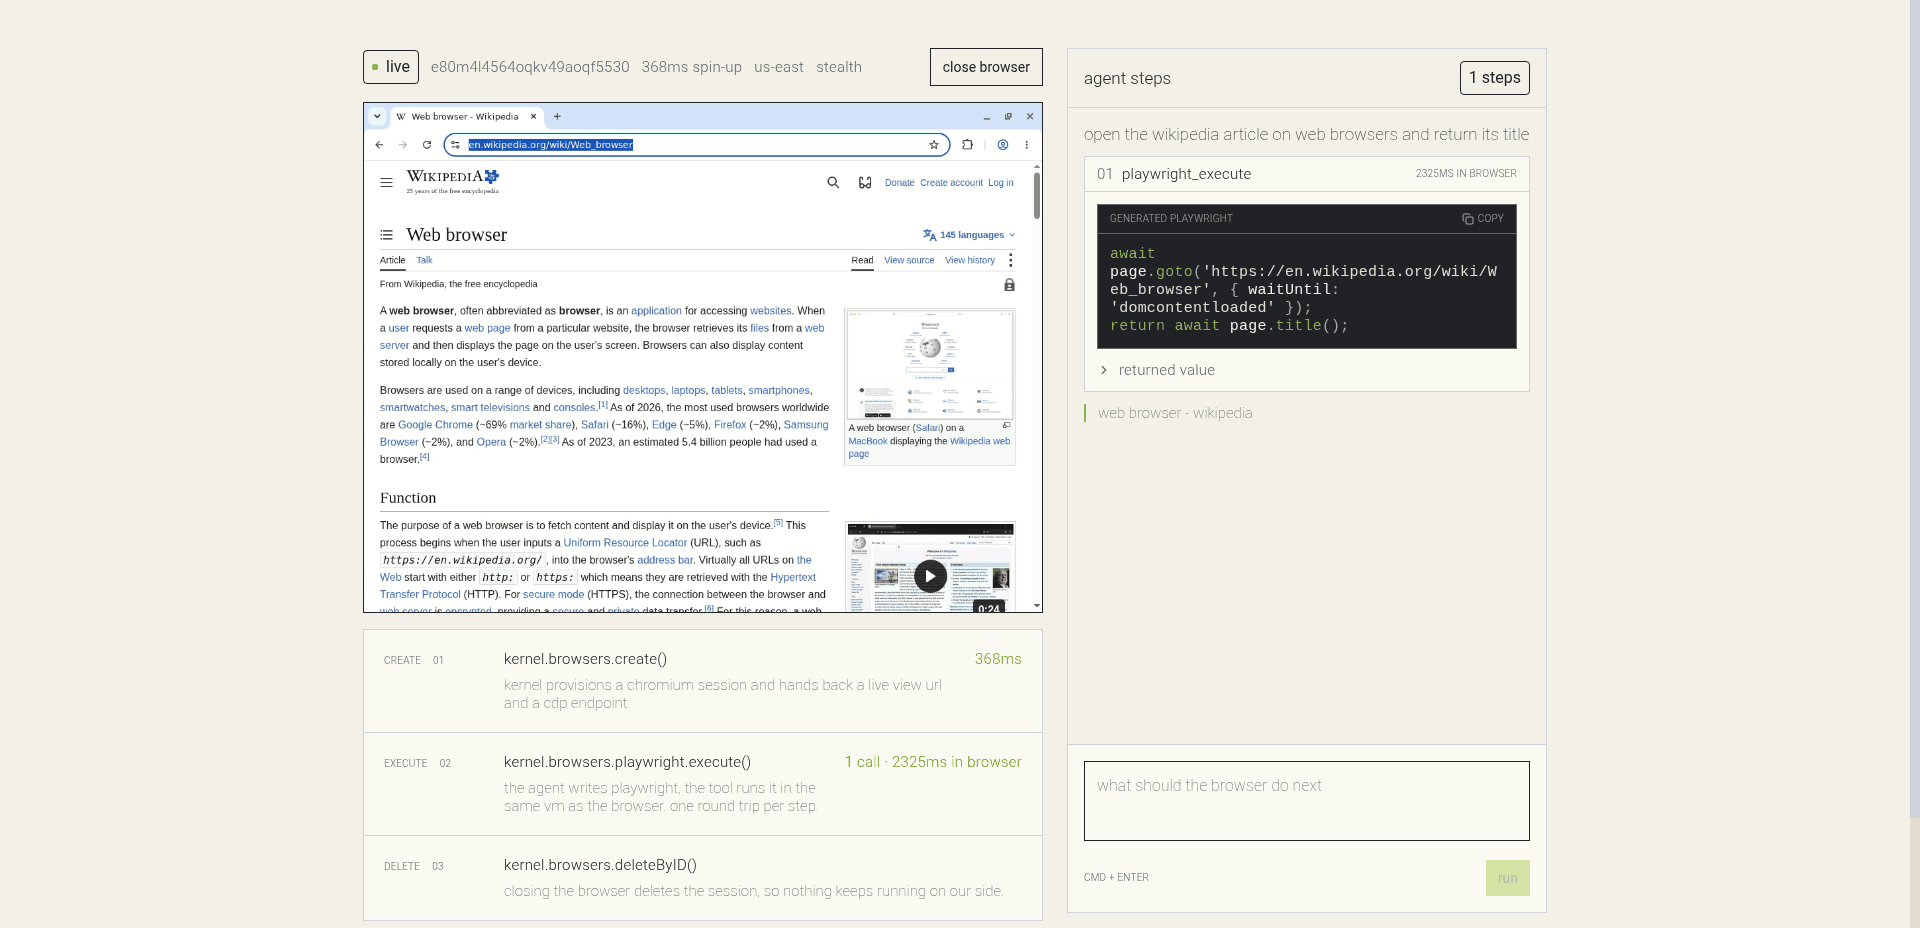
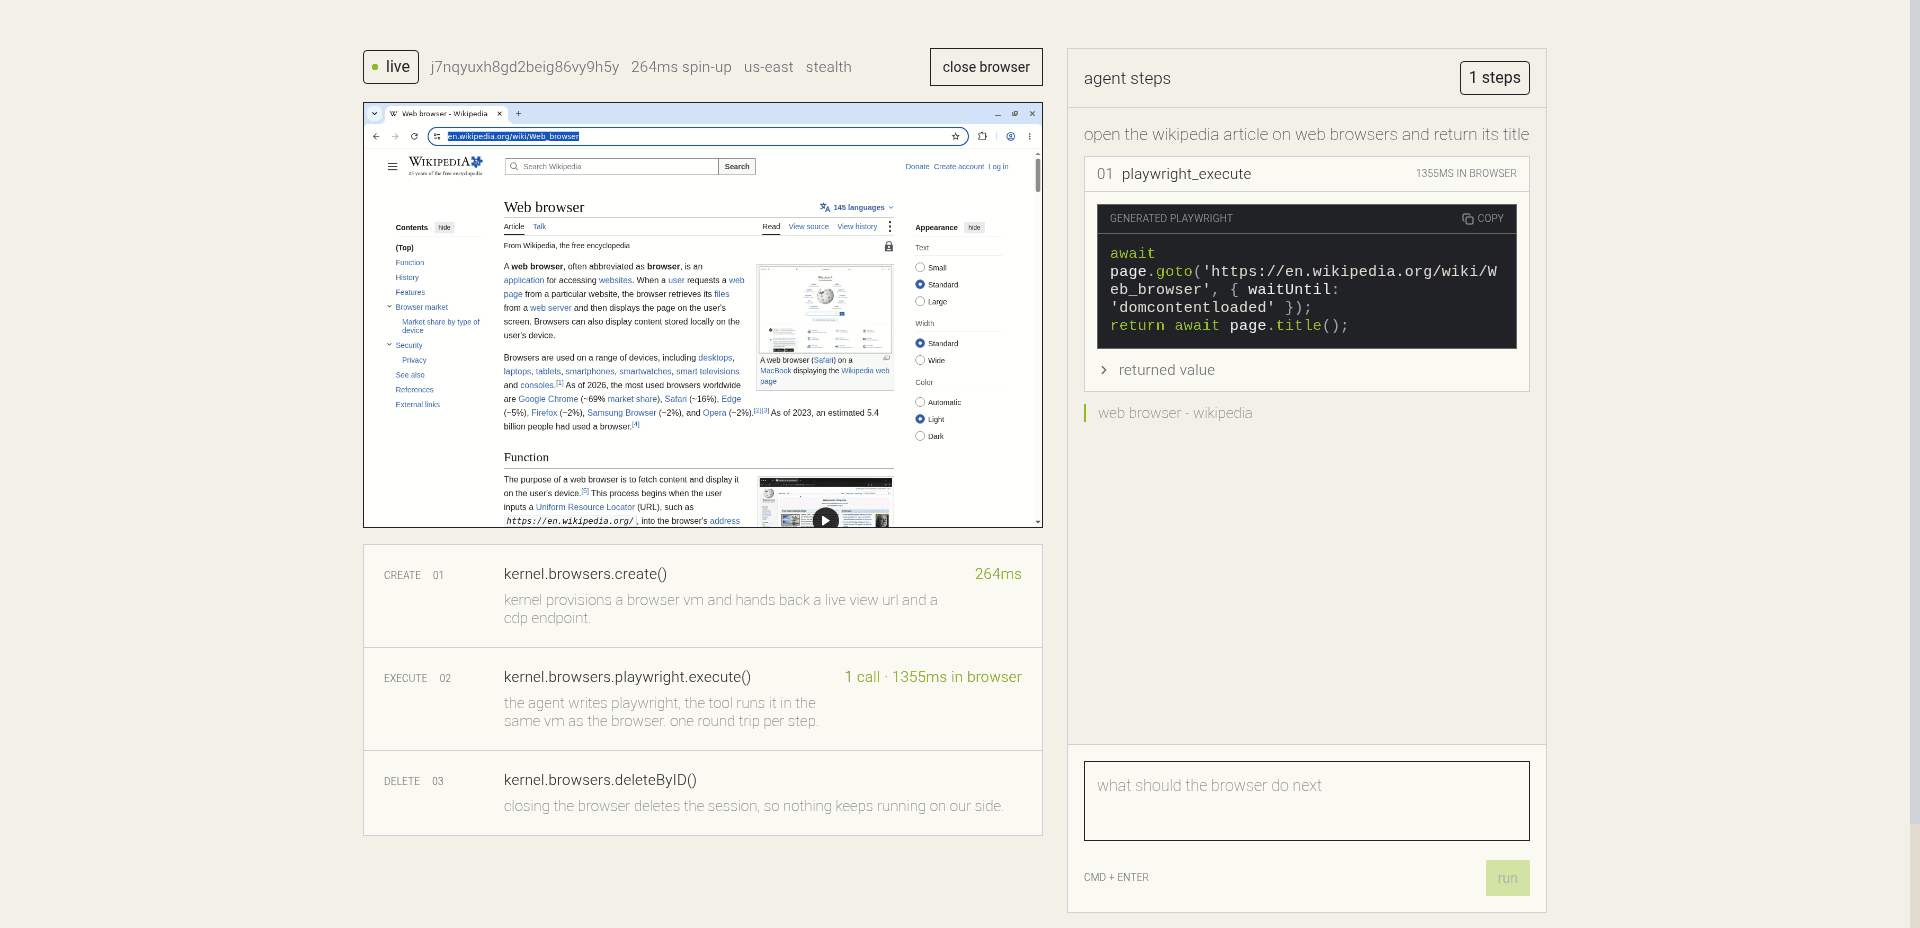
Use a 1280x800 session and say browser vm in the copy
- 1280x800 keeps the live view readable without the 1920x1080 default,
  and the frame goes to 16:10 to match
- "browser vm session" replaces "chromium session" in the hero, and the
  create card says the same

diff --git a/app/page.tsx b/app/page.tsx
@@ -157,9 +157,9 @@ export default function HomePage() {
                 instant browser infra for your next.js agent
               </h1>
               <p className="text-body-expanded-01 text-grey-light-11">
-                one call gives you a chromium session with a live view. describe
+                one call gives you a browser vm session with a live view. describe
                 a task, and a gpt-5.4 agent writes playwright, runs it in the
-                browser vm, and returns the value. every generated line stays
+                same vm, and returns the value. every generated line stays
                 visible next to the browser it ran in.
               </p>
               <div className="flex flex-wrap items-center gap-3">

diff --git a/app/api/create-browser/route.ts b/app/api/create-browser/route.ts
@@ -25,8 +25,8 @@ export async function POST() {
     const browser = await kernel.browsers.create({
       stealth: true,
       headless: false,
-      // a small window keeps the live view readable in the page
-      viewport: { width: 1024, height: 768, refresh_rate: 60 },
+      // a smaller window than the 1920x1080 default keeps the live view readable
+      viewport: { width: 1280, height: 800, refresh_rate: 60 },
       // keep the session around long enough to run a few tasks against it
       timeout_seconds: 300,
     });

diff --git a/components/HowItWorks.tsx b/components/HowItWorks.tsx
@@ -3,7 +3,7 @@ const CALLS = [
     step: "01",
     name: "create",
     call: "kernel.browsers.create()",
-    body: "KERNEL provisions a chromium session and hands back a live view url and a cdp endpoint.",
+    body: "KERNEL provisions a browser vm and hands back a live view url and a cdp endpoint.",
   },
   {
     step: "02",

diff --git a/components/BrowserPanel.tsx b/components/BrowserPanel.tsx
@@ -55,7 +55,7 @@ export function BrowserPanel({
         <iframe
           src={session.liveViewUrl}
           title="KERNEL browser live view"
-          className="aspect-[4/3] w-full"
+          className="aspect-[16/10] w-full"
           allow="camera; microphone; display-capture"
         />
       </div>
